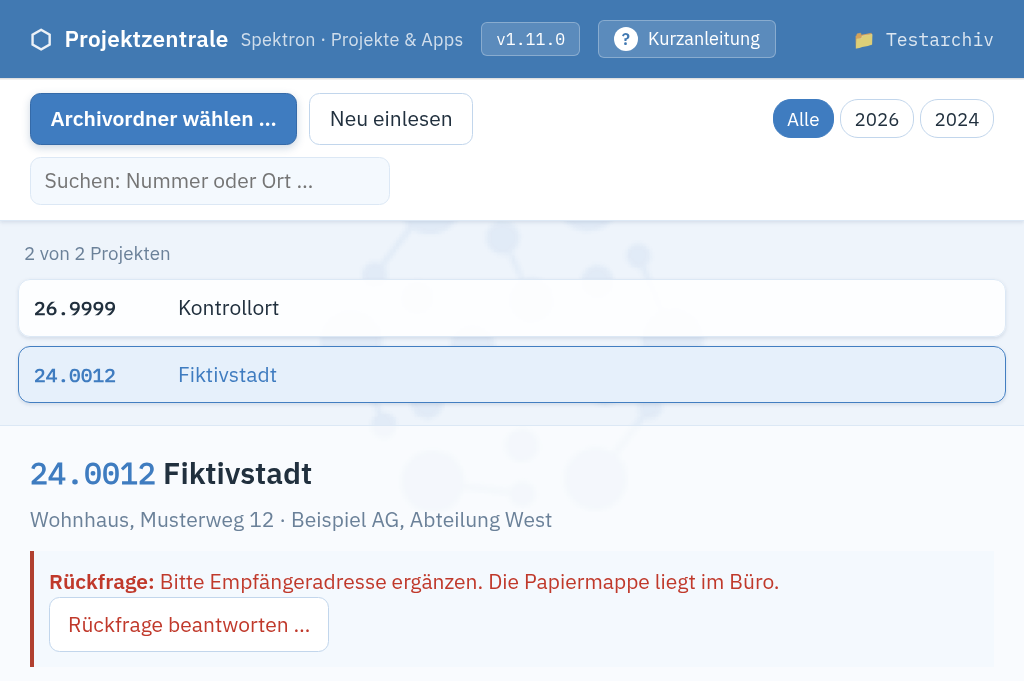
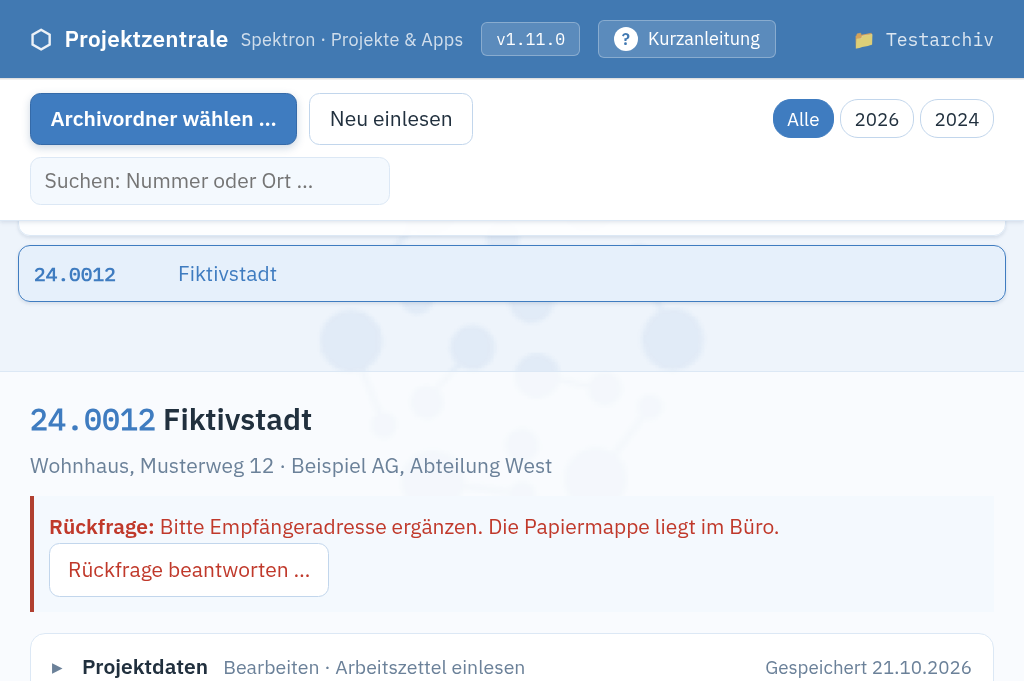
ui: keep attention actions in view in narrower zoomed windows

diff --git a/index.html b/index.html
@@ -221,7 +221,7 @@ table.vt button{padding:2px 8px;font-size:12px;margin-left:6px}
 .dialog table td:first-child{color:var(--muted);white-space:nowrap}
 .dialog .m{font-size:13px;color:var(--muted);overflow:auto}
 #support{display:none;background:color-mix(in srgb,var(--err) 12%,var(--panel));padding:10px 16px;border-bottom:1px solid var(--line)}
-@media (max-width:860px){ main{flex-direction:column} #listWrap{flex:0 0 auto;max-height:30vh} #detail{border-left:0;border-top:1px solid var(--line)} .form{grid-template-columns:1fr} }
+@media (max-width:860px){ main{flex-direction:column} #listWrap{flex:0 0 auto;max-height:22vh} #detail{border-left:0;border-top:1px solid var(--line)} .form{grid-template-columns:1fr} }
 
 .project-summary{margin:6px 0 10px;color:var(--muted);overflow-wrap:anywhere;display:-webkit-box;-webkit-line-clamp:2;-webkit-box-orient:vertical;overflow:hidden}
 #pjAttention:empty{display:none} #pjAttention{margin:10px 0;padding:10px;border-left:3px solid var(--warn);background:var(--panel2)}
